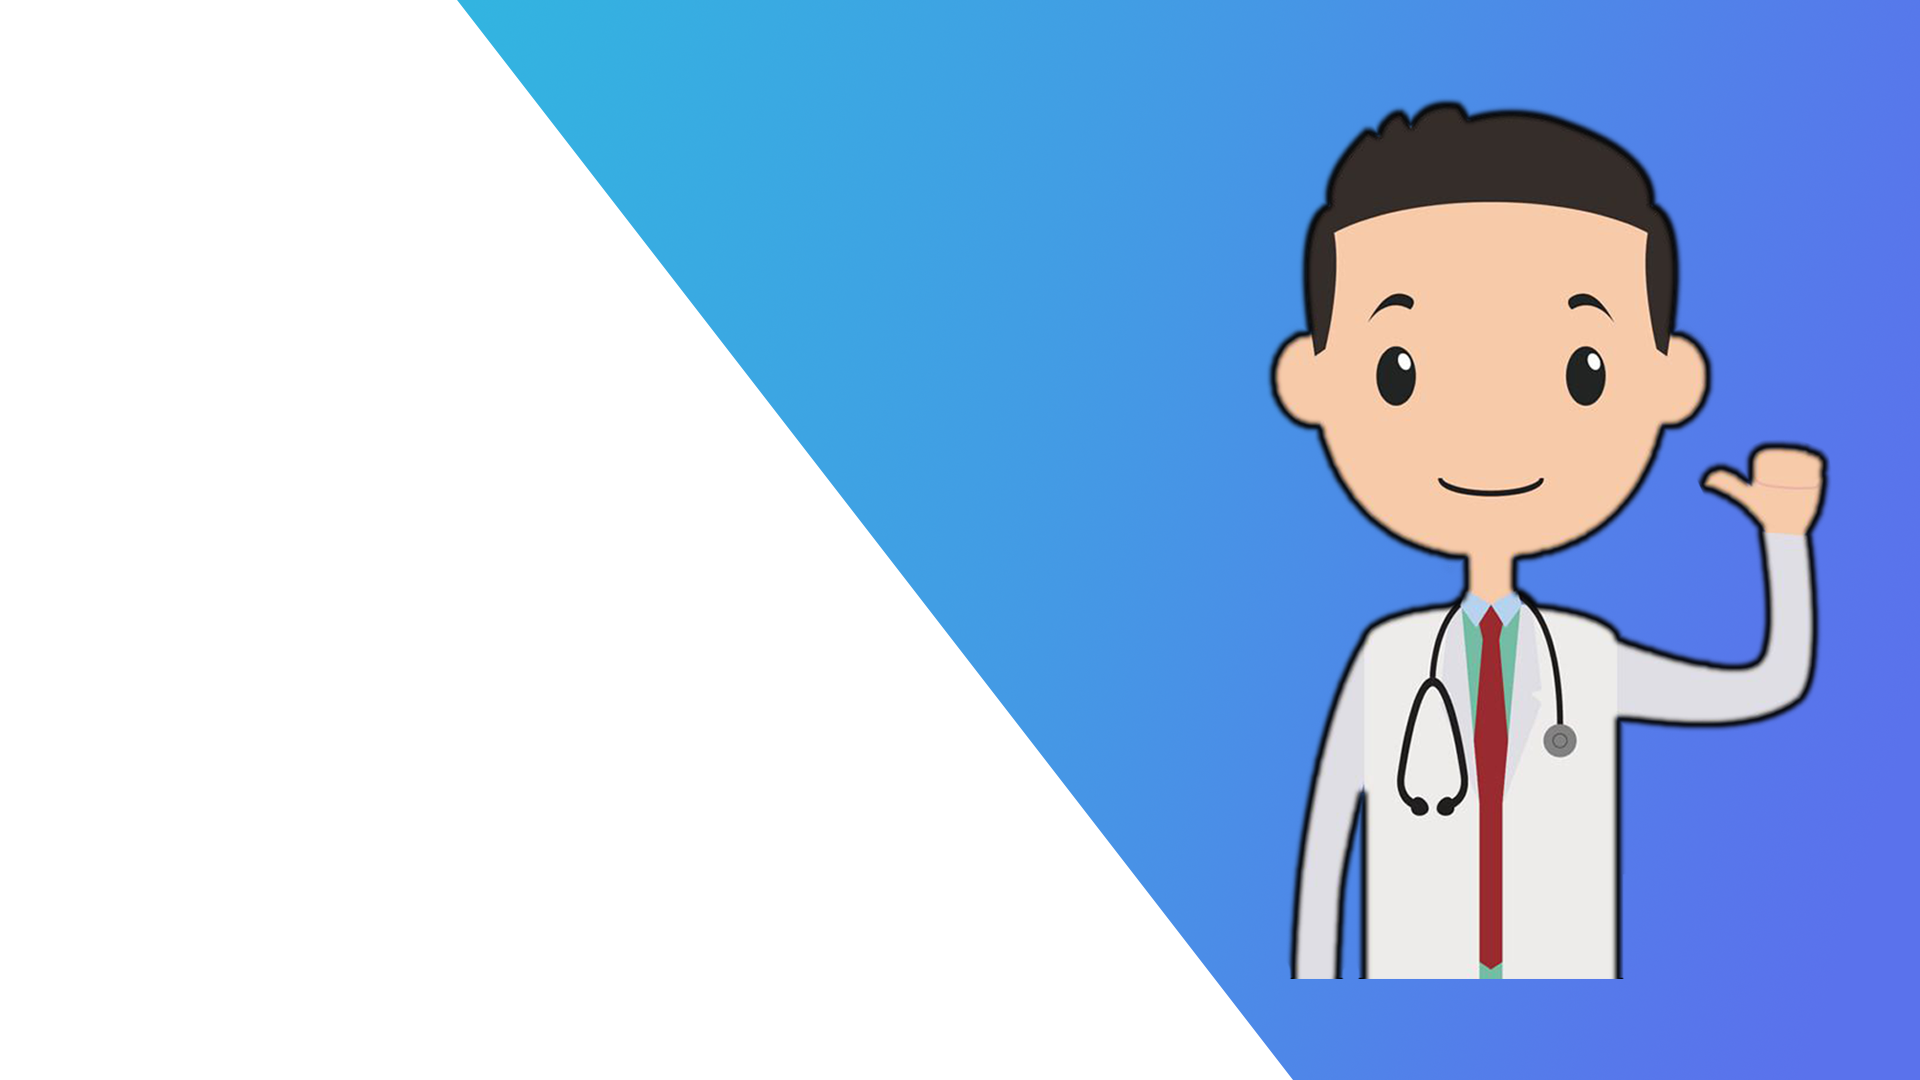
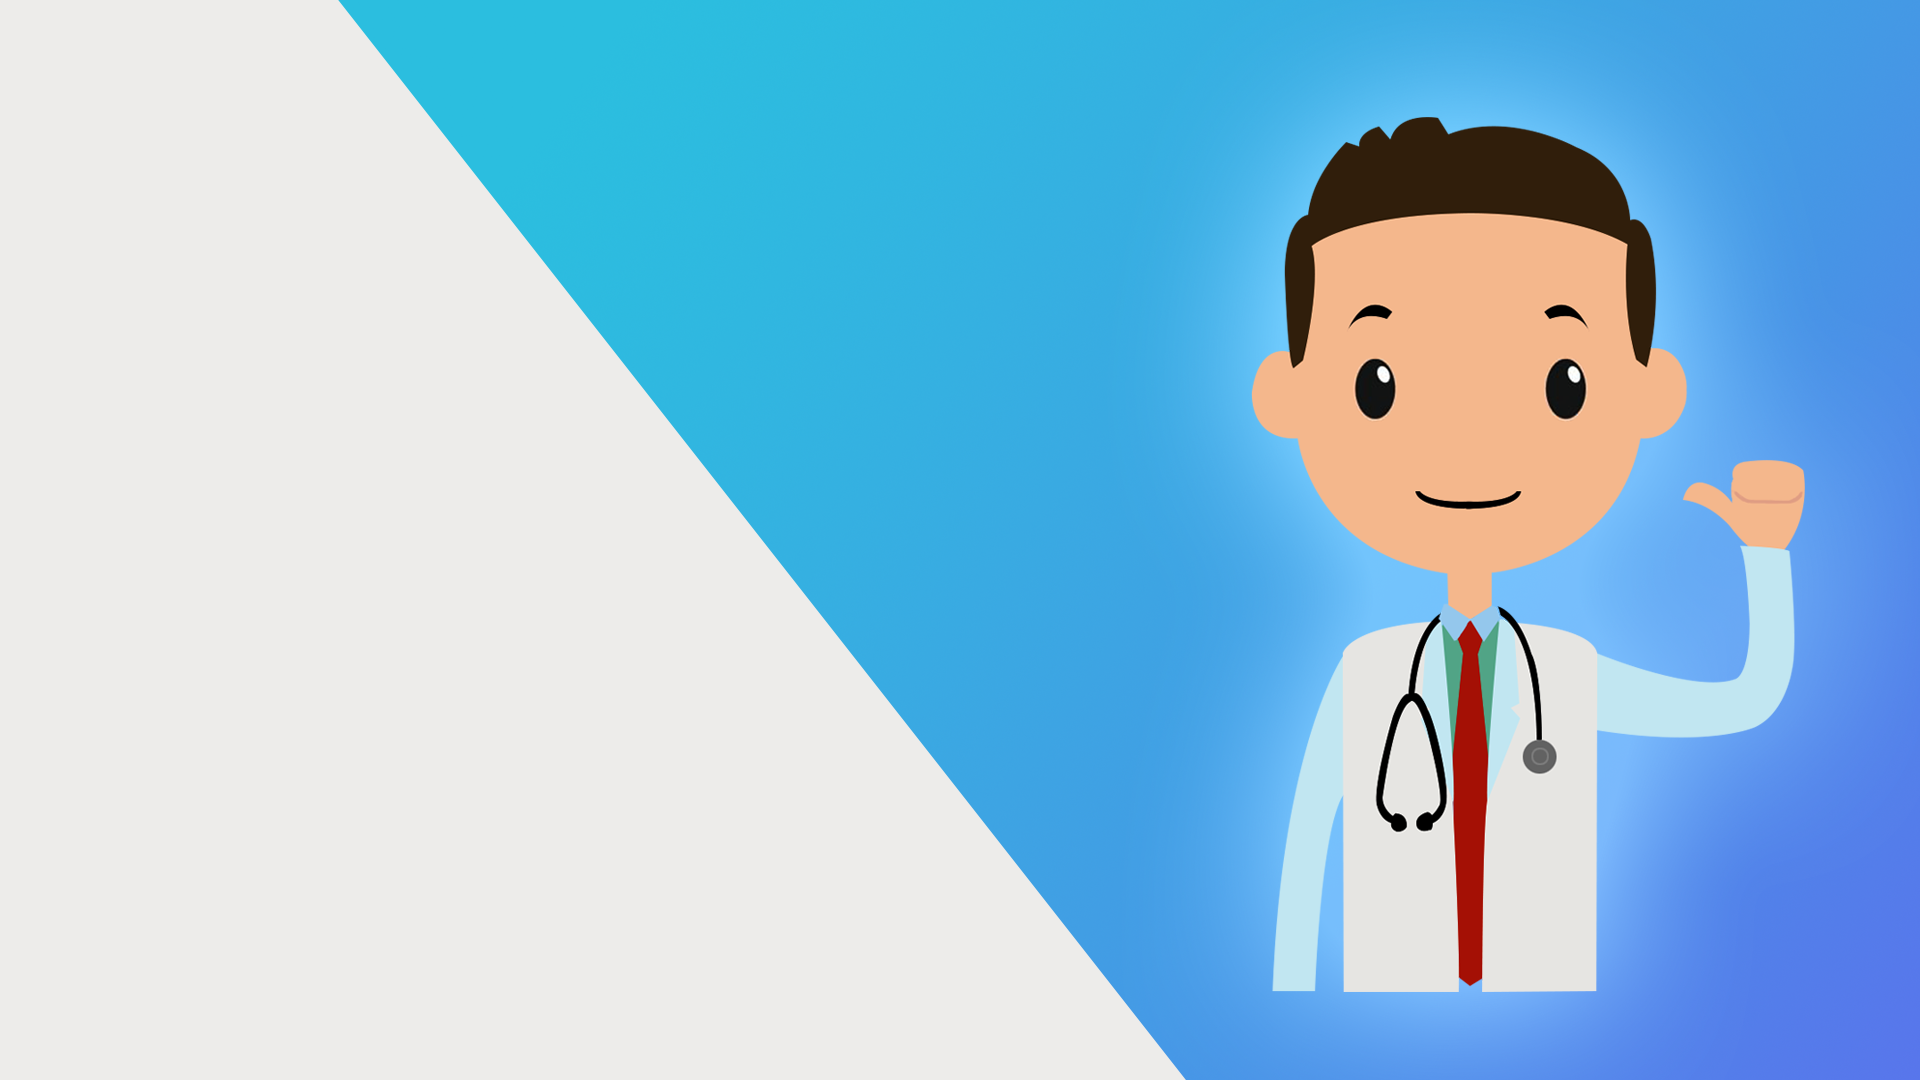
fondo

diff --git a/Saturn/users/static/styles.css b/Saturn/users/static/styles.css
@@ -3,7 +3,7 @@
 }
 
 body {
-	background-image: url(images/fondo.png);
+	background-image: url(images/fondo2.png);
 	background-attachment: fixed;
     background-size: cover;
     background-position: center;
@@ -28,7 +28,7 @@ body {
 }
 
 .card-title {
-	color: #4670FA;
+	color: #4364ac;
 	font-size: 4rem;
 	font-weight: 700;
 }
@@ -46,6 +46,7 @@ body {
 .btn {
 	font-size: 1.1rem;
 	font-weight: 700;
+	background-color: #3977c0;
 } 
 
 
@@ -58,6 +59,7 @@ body {
 .card-link {
 	font-weight: 700;
 	font-size: 1.5rem;
+	color: #3977c0;
 }
 
 .form-group-register {

diff --git a/Saturn/vistas/static/stylesVistas.css b/Saturn/vistas/static/stylesVistas.css
@@ -16,7 +16,7 @@ html, body {
 
 .section-box {
 	margin: 20rem 0;
-	padding-left: 15rem;
+	padding-left: 7rem;
 }
 
 .navbar {

diff --git a/Saturn/Saturn/urls.py b/Saturn/Saturn/urls.py
@@ -22,6 +22,7 @@ from django.conf.urls.static import static
 
 
 urlpatterns = [
+    path('', views.login, name='login'),
     path('admin/', admin.site.urls),
     path('vistas/', include('vistas.urls')),
     path('users/', include('users.urls')),
